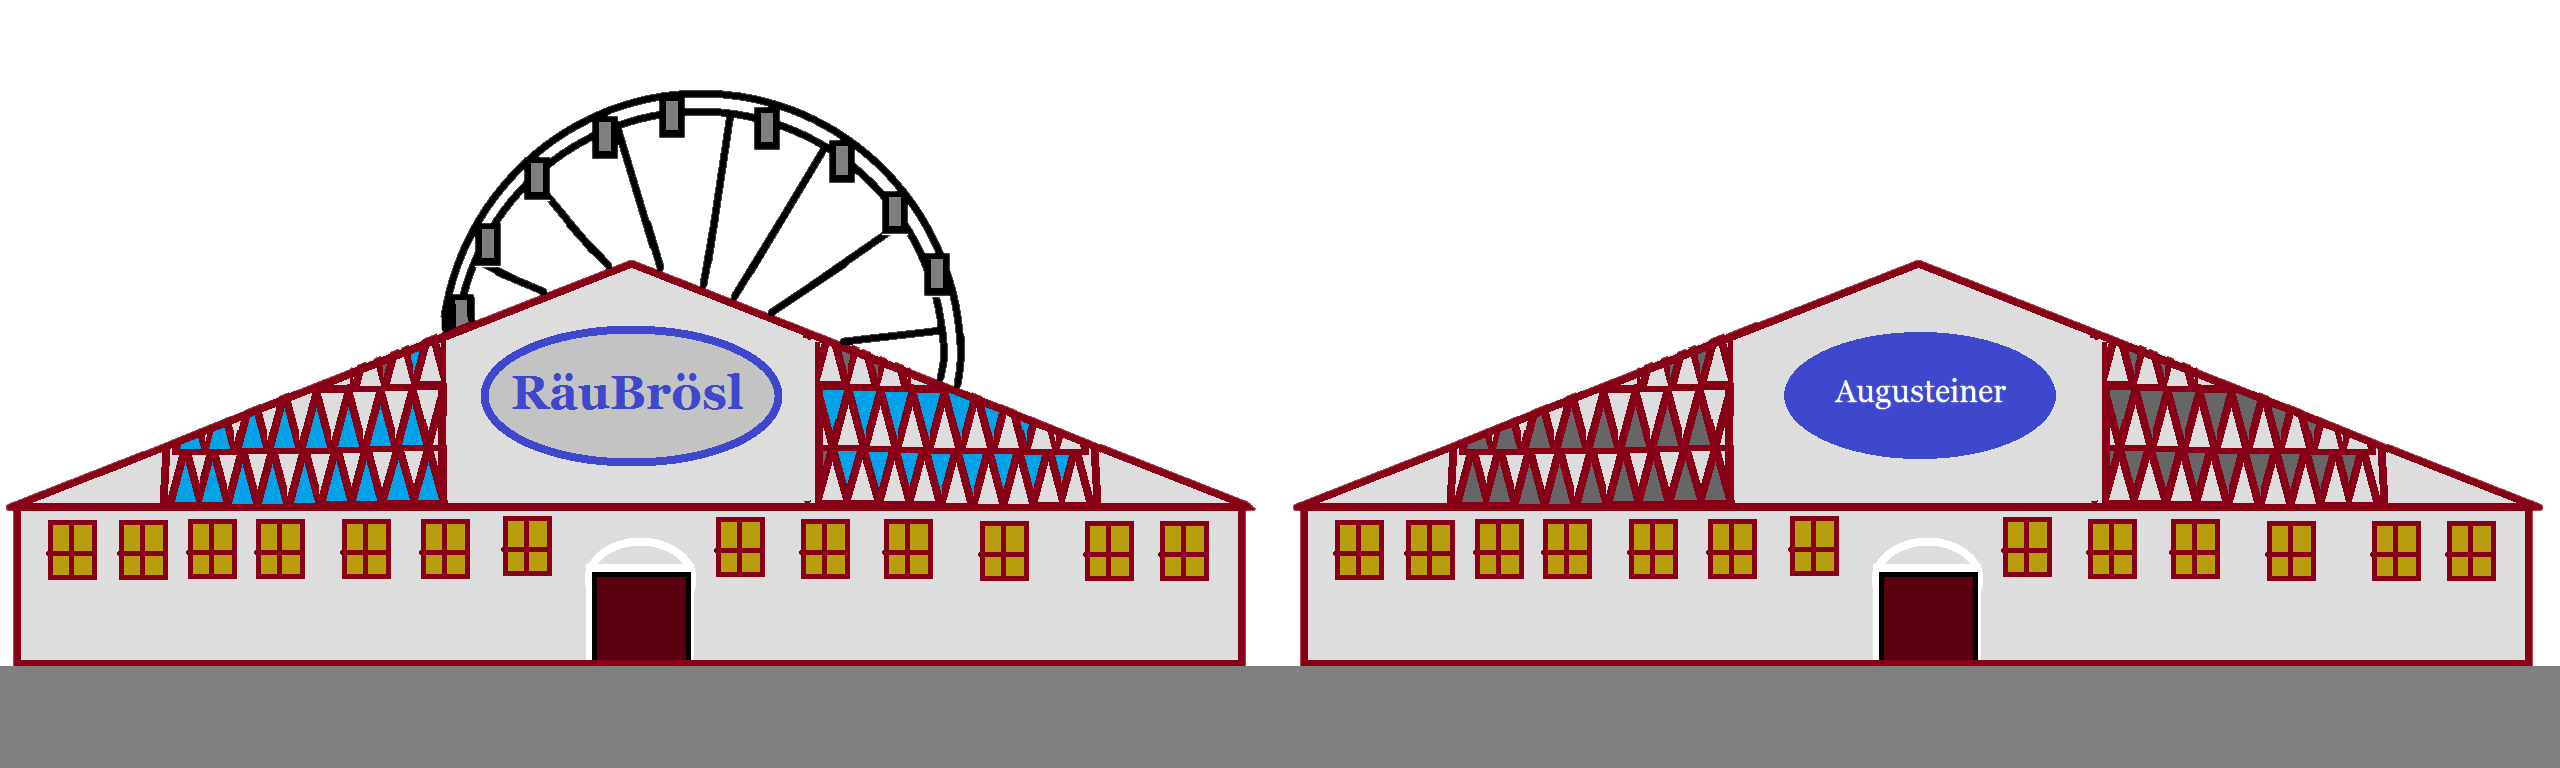
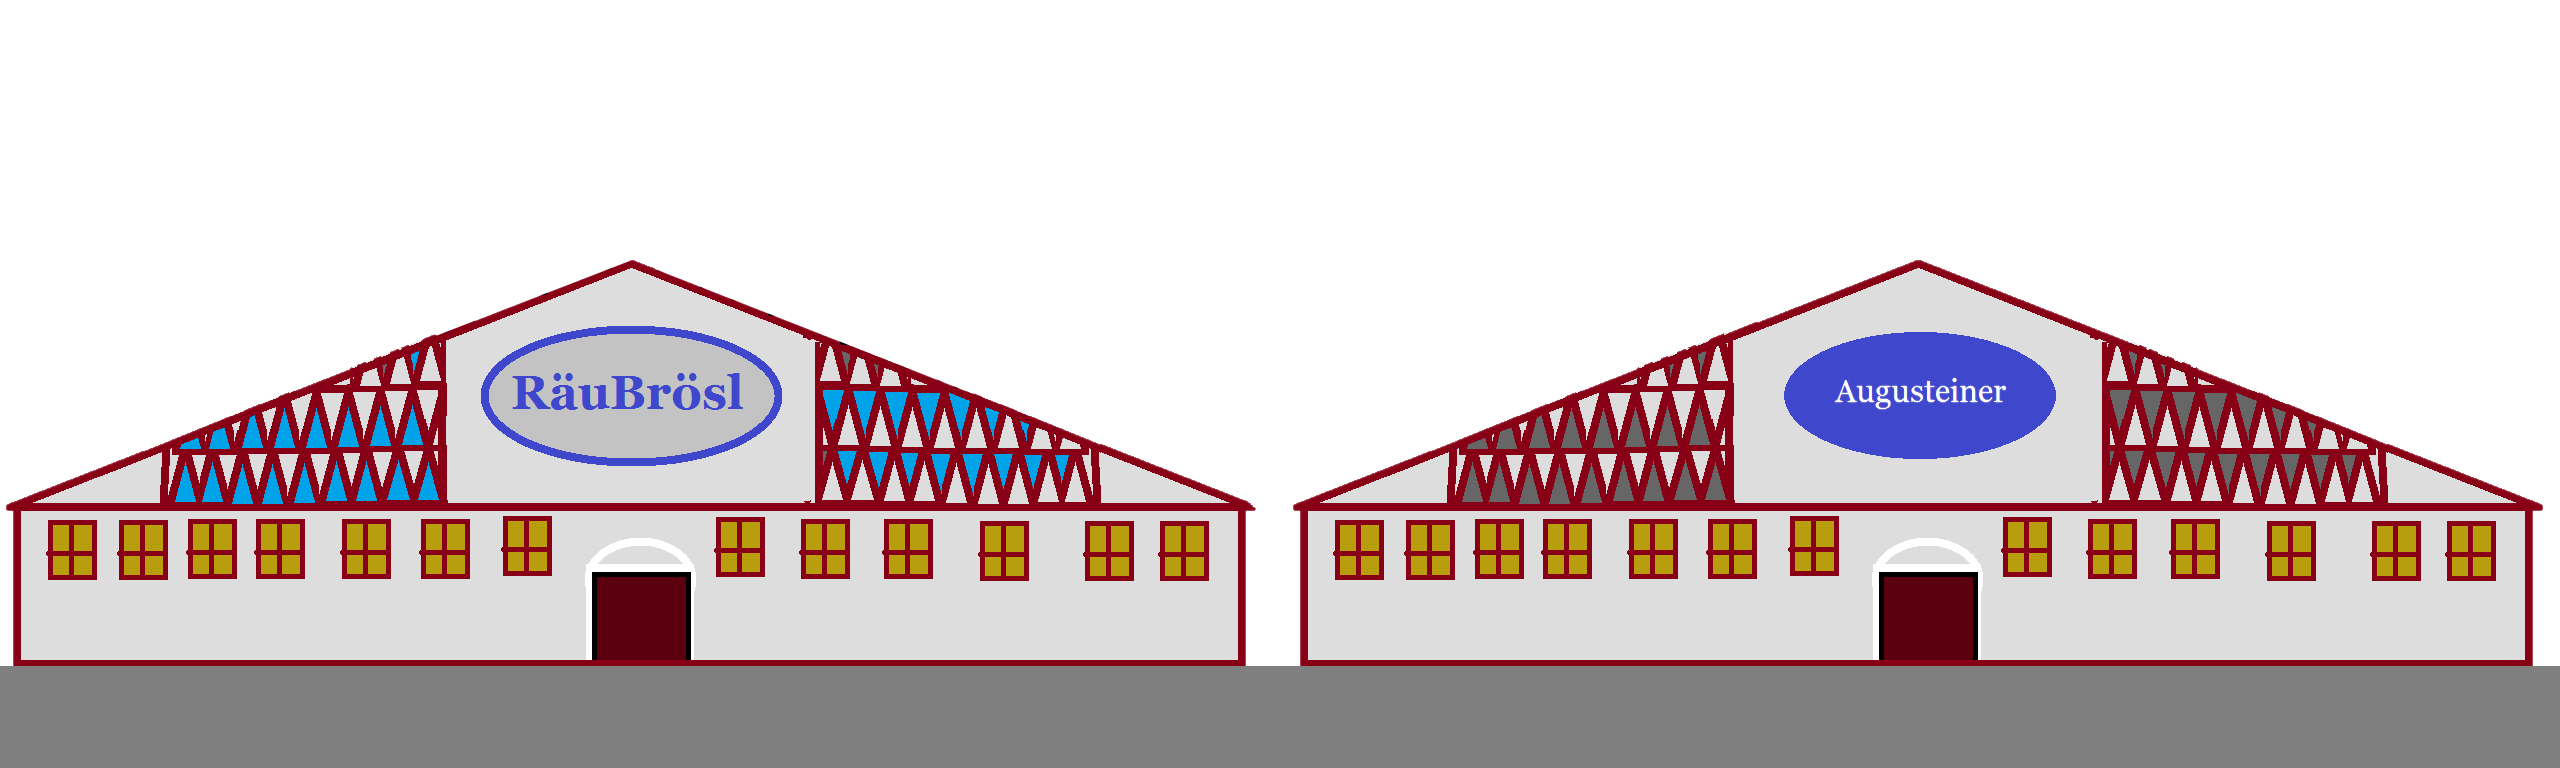
hintergrundgrafiken eingefügt

Changed region(s): [[0.1562, 0.0938, 0.375, 0.5]]

diff --git a/Wiesn-Run/src/renderbackground.cpp b/Wiesn-Run/src/renderbackground.cpp
@@ -1,6 +1,9 @@
 #include "renderbackground.h"
 
 #include <QGraphicsScene>
+#include <math.h>       /* sin */
+
+#define PI 3.14159265
 
 /**
  * @brief Konstruktor für alle Hintergrundgrafiken
@@ -20,9 +23,27 @@ RenderBackground::RenderBackground(QGraphicsScene *scene, int level) {
     this->backgroundTwo.setPos(imageLength,0);
     this->backgroundFour.setPos(imageLength,0);
 
+   /* this->giantWheel[0].setPixmap(QPixmap(":/images/images/giantwheel_base.png"));
+    this->giantWheel[0].setPos(800,426);
+
+    this->giantWheel[1].setPixmap(QPixmap(":/images/images/giantwheel.png"));
+    this->giantWheel[1].setParentItem(&giantWheel[0]);
+    this->giantWheel[1].setPos(-15,-165);
+    this->giantWheel[1].setTransformOriginPoint(186,186);
+
+    for(int i=0;i<12;i++) {
+        double param = (30*i*PI)/180;
+        this->giantWheelBasket[i].setPixmap(QPixmap(":/images/images/giantwheel_basket.png"));
+        this->giantWheelBasket[i].setParentItem(&giantWheel[1]);
+        this->giantWheelBasket[i].setPos(sin(param)*178+169,cos(param)*178+182);
+        this->giantWheelBasket[i].setTransformOriginPoint(17,3);
+
+    }*/
+
     //Grafiken werden der Scene hinzugefügt
     scene->addItem(&(this->backgroundOne));
     scene->addItem(&(this->backgroundTwo));
+    //scene->addItem(&(this->giantWheel[0]));
     scene->addItem(&(this->backgroundThree));
     scene->addItem(&(this->backgroundFour));
 }
@@ -39,7 +60,7 @@ RenderBackground::~RenderBackground() {
  * @author Flo
  */
 void RenderBackground::setPos(int x, QGraphicsPixmapItem *background) {
-    background->setPos(background->x() + x , 0);
+    background->setPos(background->x() + x , background->y());
 }
 
 /**
@@ -53,15 +74,18 @@ void RenderBackground::updateBackgroundPos(int x) {
     if(x >= this->backgroundOne.x() + imageLength) {
         this->setPos(imageLength*2, &(this->backgroundOne));
     }
-    else if(x >= this->backgroundTwo.x() + imageLength) {
+    if(x >= this->backgroundTwo.x() + imageLength) {
         this->setPos(imageLength*2, &(this->backgroundTwo));
     }
-    else if(x >= this->backgroundThree.x() + imageLength) {
+    if(x >= this->backgroundThree.x() + imageLength) {
         this->setPos(imageLength*2, &(this->backgroundThree));
     }
-    else if(x >= this->backgroundFour.x() + imageLength) {
+    if(x >= this->backgroundFour.x() + imageLength) {
         this->setPos(imageLength*2, &(this->backgroundFour));
     }
+    /*if(x >= this->giantWheel[0].x() + imageLength) {
+        this->setPos(imageLength*2, &(this->giantWheel[0]));
+    }*/
 }
 
 /**
@@ -71,7 +95,13 @@ void RenderBackground::updateBackgroundPos(int x) {
  * @param x     : x-Wert der Positionsänderung des Spielers im aktuellen Step
  * @author Flo
  */
-void RenderBackground::updateParallaxe(int x) {
-    this->setPos(x/2, &(this->backgroundOne));
-    this->setPos(x/2, &(this->backgroundTwo));
+void RenderBackground::updateParallaxe(int x, int stepCount) {
+    this->setPos(x*0.8, &(this->backgroundOne));
+    this->setPos(x*0.8, &(this->backgroundTwo));
+    //this->setPos(x*0.2, &(this->giantWheel[0]));
+
+    /*this->giantWheel[1].setRotation(-(stepCount/2));
+    for(int i=0;i<12;i++) {
+        this->giantWheelBasket[i].setRotation(stepCount/2);
+    }*/
 }

diff --git a/Wiesn-Run/src/renderGUI.cpp b/Wiesn-Run/src/renderGUI.cpp
@@ -90,7 +90,7 @@ void RenderGUI::setValues(int health, int alcohol, int ammo, int score, int step
 
     //AlkoholMax überschritten?
     if(alcohol>maxAlcohol) {
-        this->showAlcoholBar[0].setRect(140,60,BARLENGTH,BARHEIGHT);
+        this->showAlcoholBar[0].setRect(140,90,BARLENGTH,BARHEIGHT);
 
         //Balken blinkt rot auf
         if(stepCount%(frameRate*2) == 0) {
@@ -101,6 +101,7 @@ void RenderGUI::setValues(int health, int alcohol, int ammo, int score, int step
         }
     }
     else {
+        this->showAlcoholBar[0].setBrush(Qt::darkBlue);
         this->showAlcoholBar[0].setRect(140,90,(static_cast<float>(alcohol)/maxAlcohol)*BARLENGTH,BARHEIGHT);
     }
 }

diff --git a/Wiesn-Run/src/renderbackground.h b/Wiesn-Run/src/renderbackground.h
@@ -26,7 +26,7 @@ public:
     void setPos(int x, QGraphicsPixmapItem *background);
 
     //berechnet die Bewegung der Hintergrund Bewegungsparallaxe
-    void updateParallaxe(int x);
+    void updateParallaxe(int x, int stepCount);
 
     //schiebt Hintergrundgrafiken wieder vor den Spieler wenn dieser an ihnen vorbeigelaufen ist
     void updateBackgroundPos(int x);
@@ -38,6 +38,9 @@ private:
     QGraphicsPixmapItem backgroundTwo;
     QGraphicsPixmapItem backgroundThree;
     QGraphicsPixmapItem backgroundFour;
+
+    //QGraphicsPixmapItem giantWheel[3];
+   // QGraphicsPixmapItem giantWheelBasket[12];
 
     //Bildbreite der Hintergrundgrafiken
     int imageLength = 2560;

diff --git a/Wiesn-Run/src/game.cpp b/Wiesn-Run/src/game.cpp
@@ -1743,7 +1743,7 @@ void Game::renderGraphics(std::list<GameObject*> *objectList, Player *playerPoin
                        playerPointer->getAmmunatiuon(),playerScore.totalPoints, stepCount);
 
     //Parralaxe Positionsupdate
-    showBackground->updateParallaxe(playerStepMov);
+    showBackground->updateParallaxe(playerStepMov, stepCount);
 
     //Hintergrund Positionsupdate
     showBackground->updateBackgroundPos(playerPointer->getPosX() - playerOffset - playerScale*0.5);
